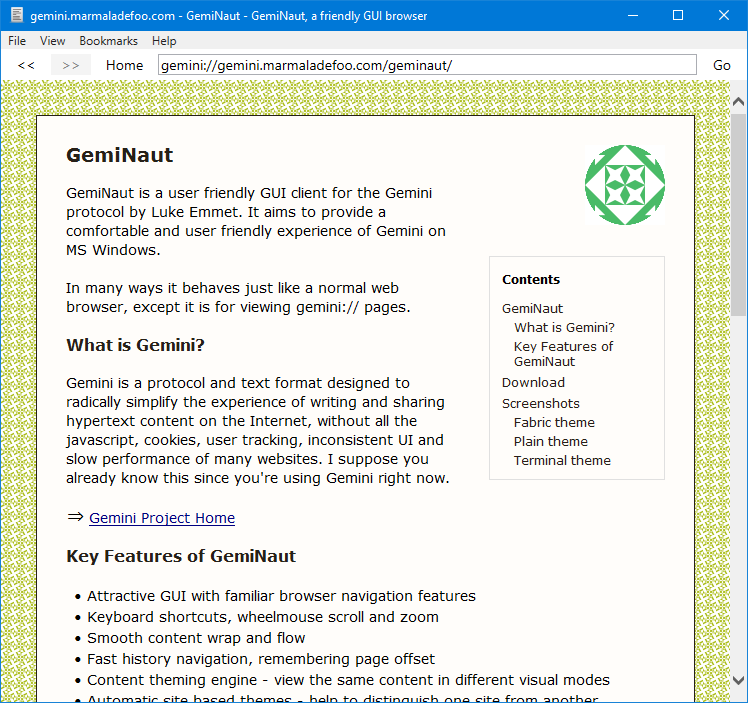
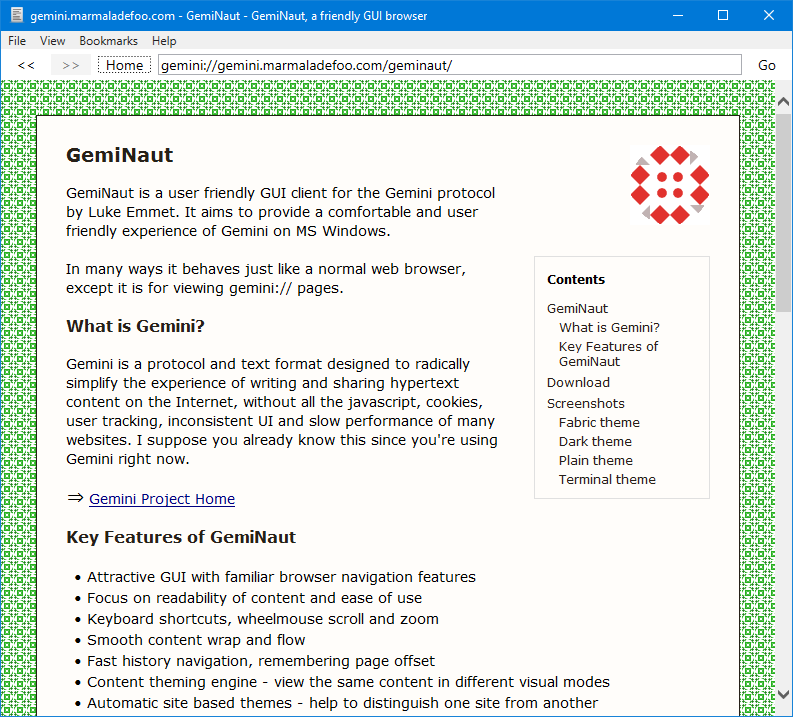
update docs

diff --git a/README.md b/README.md
@@ -18,9 +18,10 @@ You can download a pre-built application for Windows from the <a href="https://w
 * Flexible theming engine
 * Site based themes
 * Visually distinguish internal (gopher, gemini) vs external links (http, https etc)
-* Table of contents (Fabric theme)
+* Table of contents (Fabric and Dark themes)
 * Icon hints to common non textual content (images, audio, video, docs) 
 * Support both Gemini and Gopher protocol
+* Autolinking of urls in Gopher text pages
 * View source
 
 # License 
@@ -38,6 +39,27 @@ Dark theme:
 ![Screenshot](GemiNaut/Docs/images/dark_theme.png)
 
 # History
+
+## 0.8.6, 6-Jul-2020
+
+GemiNaut 💓 Gopher
+
+* GemiNaut is now a gopher client as well as gemini
+* preformatted areas now have their own scroll bar and don't overflow the side of the content
+* update Fabric theme so it uses internally generated fabric and identicon (previous Fabric theme still available as "classic")
+* automatic linking of plain urls in gopher text files
+* automatic generation of page titles for gopher pages based on url
+* update to use latest gemget 0.1.3
+* theming engine will use same theme for the same user on gemini and gopher
+* gopher text is monospaced but will softwrap for longer lines > 85 chars
+* only display text/gemini as gemini content, otherwise use plain text preformatted rendering
+* make bookmarks window wider
+* show tooltips or urls for bookmark entries
+* better feedback messages if content cannot be displayed
+* check url entered into address bar is valid syntax before trying to navigate to it
+* support spacers in bookmarks list with lines of hyphens or underscores longer than two characters
+* minor improvements to themes
+* use a smaller border around placemarker icon when there is no TOC
 
 ## 0.8.5, 19-Jun-2020
 
